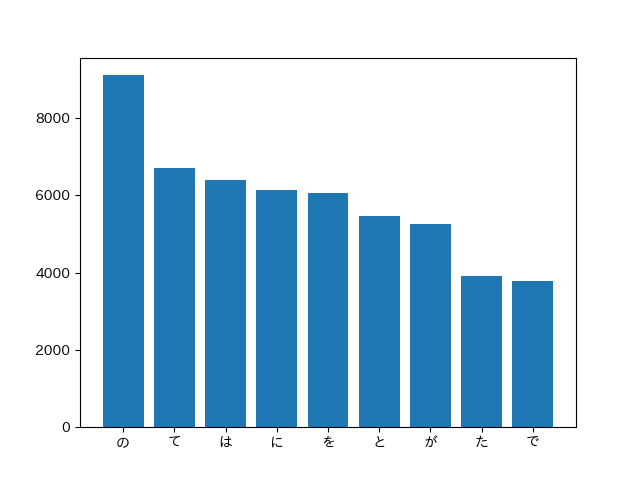
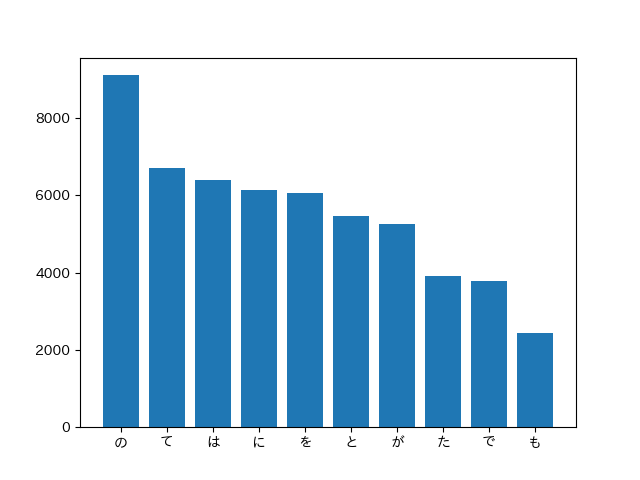
nock37backup
まだ終わりにあらず

diff --git a/nock100/nock33.py b/nock100/nock33.py
@@ -14,14 +14,23 @@ def search(full_list):
     return name[0:-1]
 
 
+def is_pos(word):
+    return word['pos'] == '名詞'
+
+
+def is_no(word):
+    return word['pos'] == '助詞' and word['surface'] == 'の'
+
+
 def noun_noun(full_list):
     name = ''
     for line in full_list:
         for index, word in enumerate(line):
-            if word['pos'] == '名詞':
-                if line[index - 1]['pos'] == '助詞' and line[index - 1]['surface'] == 'の':
-                    if line[index - 2]['pos'] == '名詞':
-                        name = name + line[index - 2]['surface'] \
+            # if word['pos'] == '名詞':
+            # if line[index - 1]['pos'] == '助詞' and line[index - 1]['surface'] == 'の':
+            # if line[index - 2]['pos'] == '名詞':
+            if is_pos(word) and is_no(line[index - 1]) and is_pos(line[index - 2]):
+                name = name + line[index - 2]['surface'] \
                                + line[index - 1]['surface'] \
                                + line[index]['surface'] + '\n'
     return name

diff --git a/nock100/Un37.py b/nock100/Un37.py
@@ -1,0 +1,37 @@
+import sys
+import nock30
+import Un35
+from collections import Counter
+import Un35
+import Un36
+
+
+def find_cat(phrase_list, surface):
+    new_phrase_list = []
+    for line in phrase_list:
+        for index, phrase_surface in enumerate(line):
+            if phrase_surface['surface'] == surface:
+                new_phrase_list.append(line)
+    return new_phrase_list
+
+
+def main():
+    args = sys.argv
+    args.append('neko.txt.mecab')
+
+    phrase_list = [nock30.parse_mecab(phrase)
+                   for phrase in nock30.make_phrase_list(args[1])]
+    phrase_list = Un36.remove_items(phrase_list, '記号')
+    new_phrase_list = find_cat(phrase_list, '猫')
+    count_list = []
+    for line in new_phrase_list:
+        for phrase_surface in line:
+            if phrase_surface['surface'] == '猫':
+                continue
+            count_list.append(phrase_surface['surface'])
+    for count_phrase in Un35.word_pop_frequency(count_list):
+        print(count_phrase)
+
+
+if __name__ == '__main__':
+    main()

diff --git a/nock100/Un35.py b/nock100/Un35.py
@@ -3,11 +3,17 @@ from package import func
 from collections import Counter
 
 
-def word_pop_frequency(phrase_list):
+def phrase_key_list(phrase_list, key):
     phrase = []
     for line in phrase_list:
-        for line2 in line:
-            phrase.append(line2['surface'])
+        for items in line:
+            phrase.append(items[key])
+    return phrase
+
+
+def word_pop_frequency(phrase):
+    if isinstance(phrase[0], list):
+        phrase = phrase_key_list(phrase, 'surface')
     phrase_list = sorted(Counter(phrase).items(), key=lambda x:x[1], reverse=True)
     return phrase_list
 

diff --git a/nock100/Un36.py b/nock100/Un36.py
@@ -1,11 +1,8 @@
 import sys
-import re
-from collections import Counter
 import Un35
 import nock30
 import numpy
 from matplotlib import pyplot
-from matplotlib.font_manager import FontProperties
 # import japanize_matplotlib  # Pycharm用
 
 
@@ -42,14 +39,11 @@ def main():
         plt_keys.append(dict_box)
         plt_items.append(items)
         print(dict_box, items)
-        if counter == 1:
+        if counter == 0:
             break
         counter -= 1
 
     plot(plt_keys, plt_items)
-
-
-
 
 
 if __name__ == '__main__':
